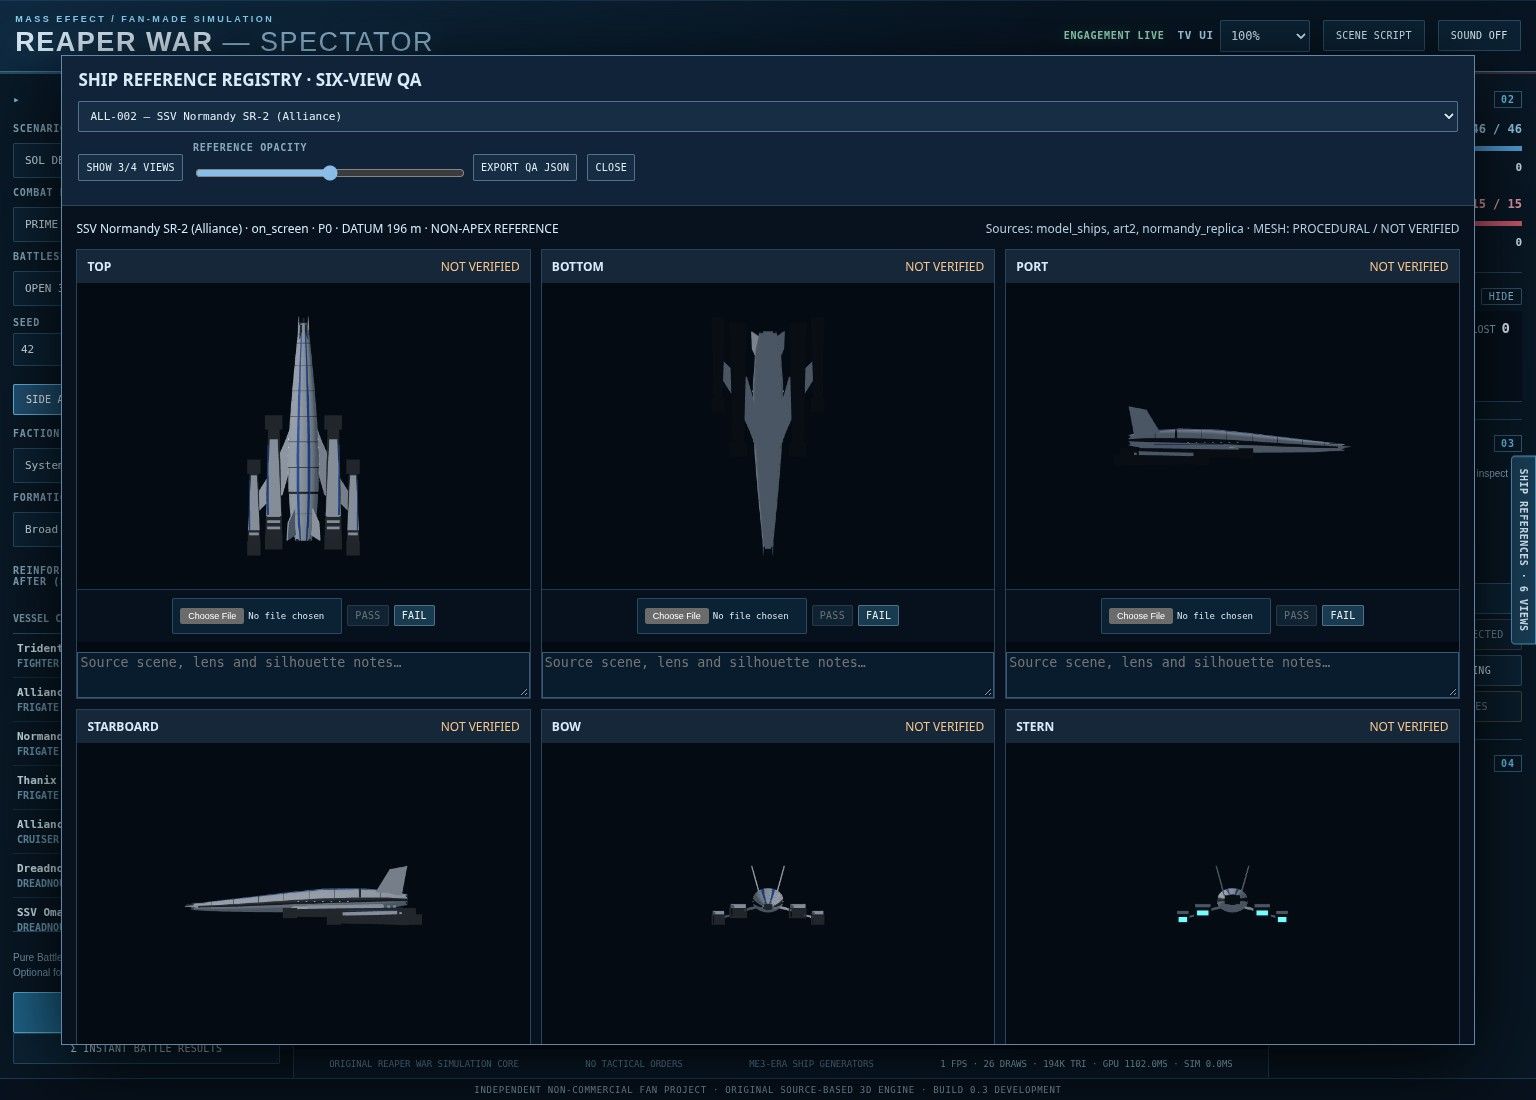
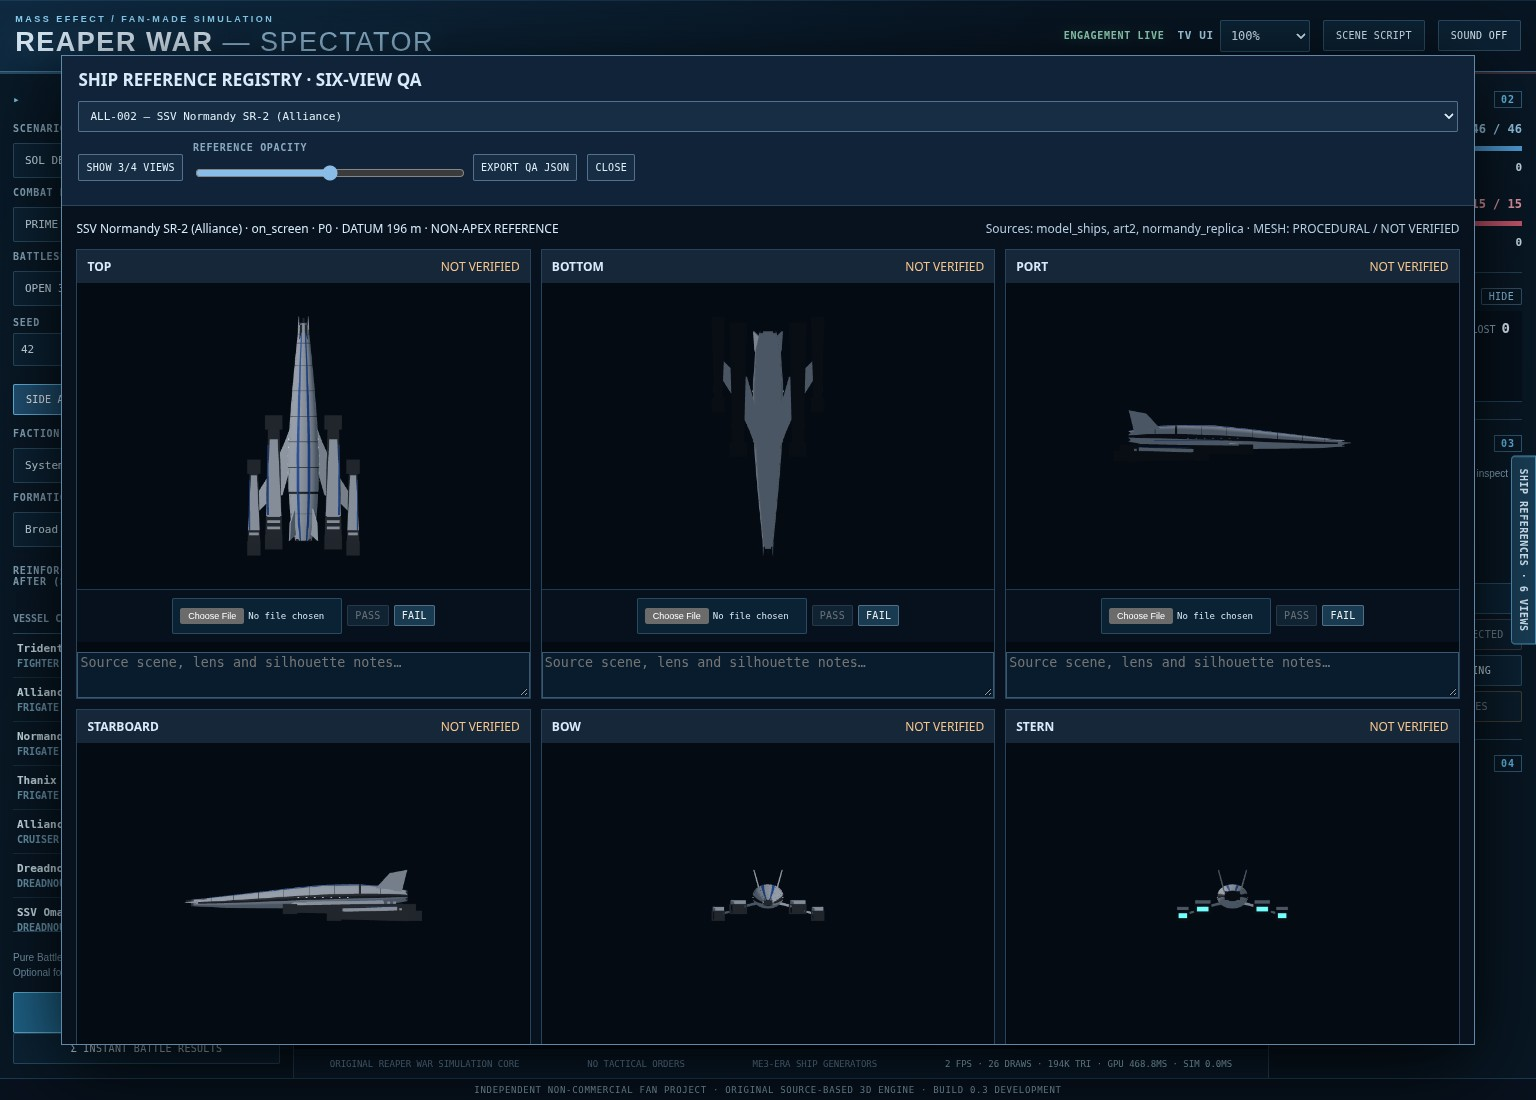
Record six-view and battle evidence with the final SR-2 checkpoint

diff --git a/docs/apex/CHECKPOINT.md b/docs/apex/CHECKPOINT.md
@@ -2,6 +2,17 @@
 
 Lead engineer's running checkpoint for the handover of 9 November 2026 (priorities P1–P8). Short by design; the evidence lives in the files it names.
 
+## Local SR-2 candidate — 11 Nov 2026
+
+Original Normandy SR-2 silhouette work is on local branch `fix/normandy-sr2-profile-20261111` in both repositories. Codex was rebased without conflicts onto `d7f1313` after the 3D engagement PR #49 merged; sandbox starts at `86d0598`. No remote SR-2 PR or merge exists yet: external publication is awaiting explicit confirmation after automatic approval review rejected the coordination comment.
+
+- Rounded fuselage, narrow swept supports, separate stepped nacelles, paired aft fins, deck joints/stripes and a dark flank belt. Measured beam/length 0.7943 → 0.4733; 216 m inferred gameplay length and gun datum retained. Exhaust nodes move with the revised nozzles and are verified by raycasts.
+- Five material batches remain. Full/reduced triangles per hull 496/220 → 1,752/1,460. A staged 1,000-hull render uses 5/2 calls in both repositories. SwiftShader only; no hardware FPS claim.
+- `docs/apex/NORMANDY_SR2_QA_2026-11-11.md` records source quality, six-view inspection, tests and limits; `docs/apex/qa/normandy-sr2-20261111/` contains only renders of original code. Private references remain outside both repositories.
+- Initial Codex checks: 411 unit tests, typecheck/build, 320- and 1,000-ship browser checks. After the #49 rebase, all 69 unit files / 422 tests pass. Sandbox: 51 Node tests, typecheck/build, four selected browser cases (registry read passed on rerun after an edit-triggered reload). Final model tests pass in both.
+- Issue #16 remains unapproved. Official product photos corroborate the major shape but are not game orthographics; underside details and exact dimensions remain provisional. No other faction's approval status changed.
+- Shared combat, camera and LOD policy remain outside this candidate. Check live branches and PRs again before publishing or continuing; sandbox's 3D engagement port appeared while this work was in progress.
+
 ## State on 11 Nov 2026, 00:00 UTC — performance and Alliance hulls
 
 Read this section first. Everything below it is older.

diff --git a/docs/apex/NORMANDY_SR2_QA_2026-11-11.md b/docs/apex/NORMANDY_SR2_QA_2026-11-11.md
@@ -43,7 +43,7 @@ Evidence is in `qa/normandy-sr2-20261111/`. The model QA script saves dimensions
 
 ## Verification
 
-- Codex: TypeScript/build; 68 unit files / 411 tests pass. Focused model/instancing/LOD checks pass after detail refinement. Existing ordinary Alliance hull tests remain intact.
+- Codex: TypeScript/build; 69 unit files / 422 tests pass after rebasing onto the merged 3D engagement work at `d7f1313`. Focused model/instancing/LOD checks pass after detail refinement. Existing ordinary Alliance hull tests remain intact.
 - Sandbox: TypeScript/build; 51 Node tests pass. The existing test transpiler now includes the new geometry dependency; nine Alliance/SR-2 tests pass after the final fin-height adjustment.
 - Codex browser: existing 320-ship GPU regression and a new 1,000-ship SR-2 battle pass. The latter checks hero/instance coexistence, muzzle, four nodes, five SR-2 batch parts, unchanged simulation time/RNG and zero WebGL errors.
 - Sandbox browser: graphics state/camera invariance, fleet controls and six-view interaction were exercised. An initial registry read was interrupted by a development-server reload while editing; its isolated rerun passed. All four selected sandbox browser cases therefore passed (three initially, one on rerun).
